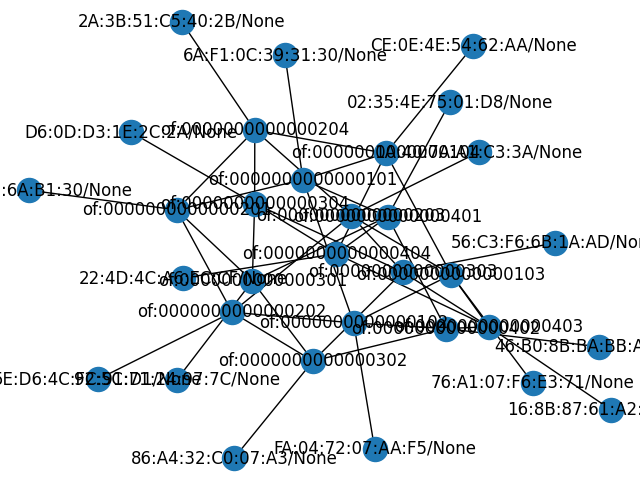
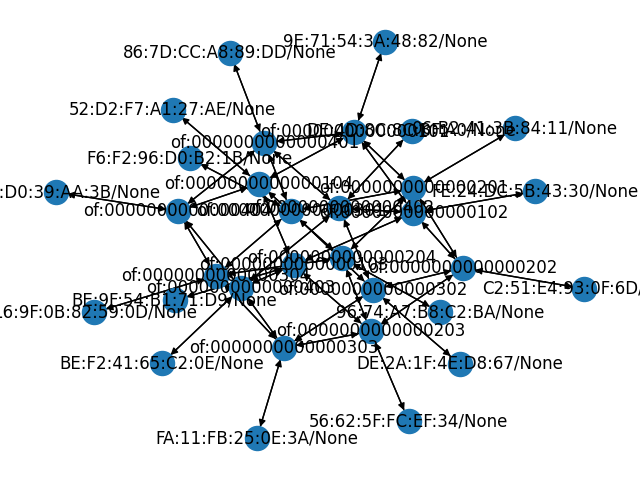
ajout routage complet de la topologie

Changed region(s): [[0.0, 0.0, 1.0, 1.0]]

diff --git a/app-graphql.py b/app-graphql.py
@@ -3,6 +3,7 @@ from requests.auth import HTTPBasicAuth
 import networkx as nx
 import matplotlib.pyplot as plt
 import time
+import itertools
 
 print("Démarrage de l'application IPS, veuillez patienter.\n")
 print("Vérification de la disponibilité de l'API Onos...\n")
@@ -21,7 +22,7 @@ print("Vérification de la disponibilité de l'API Onos...\n")
 # création du graphe de la topologie du réseau associé au contrôleur ONOS à partir de son adresse IP
 def create_graph_from_topology(ip):
     # initialisation du graphe
-    gr = nx.Graph()
+    gr = nx.DiGraph()
 
     # requêtes au contrôleur ONOS
     url = "http://"+ip+":5000/graphql"
@@ -35,18 +36,20 @@ def create_graph_from_topology(ip):
     elif (r_links.status_code != 200):
         return "Erreur sur la liste des liens."
     else:
+        global host_list_mac
+        host_list_mac = []
         host_list = r_hosts.json()['data']['hosts']
         link_list = r_links.json()['data']['liens']
         
-        # for i in devices_list:
-        #     gr.add_node(i['id'])
-        
         for l in link_list:
             gr.add_edge(l['src']['device'],l['dst']['device'],orig=l['src']['port'],dest=l['dst']['port'])
+            gr.add_edge(l['dst']['device'],l['src']['device'],orig=l['dst']['port'],dest=l['src']['port'])
         
         for h in host_list:
             gr.add_node(h['id'],id=h['id'])
+            host_list_mac.append(h['id'])
             gr.add_edge(h['id'],h['locations'][0]["elementId"],orig="host",dest=h['locations'][0]["port"])
+            gr.add_edge(h['locations'][0]["elementId"],h['id'],orig=h['locations'][0]["port"],dest="host")
         
         return gr
 
@@ -54,65 +57,72 @@ start = time.time()
 gr = create_graph_from_topology("192.168.1.154")
 r = nx.draw(gr, with_labels=True)
 plt.savefig("test-graphql.png")
-end = time.time()
 
-print("La topologie du réseau a été générée. Temps de génération : ", end - start, " secondes\n")
-while (1):
-    orig = input("Veuillez entrer l'hôte d'origine.\n")
-    if orig not in gr:
-        print("Hôte inexistant. Veuillez réessayer.\n")
-    else:
-        break
-while (1):
-    dest = input("Veuillez entrer l'hôte de destination.\n")
-    if dest not in gr:
-        print("Hôte inexistant. Veuillez réessayer.\n")
-    else:
-        break
 
-print("Exécution de Dijsktra... \n")
-# test Dijkstra
-l = nx.shortest_path(gr,orig,dest)
-print("Voici le chemin le plus court : \n")
-print(l)
-print("\nInstallation des intents :")
+# print("La topologie du réseau a été générée. Temps de génération : ", end - start, " secondes\n")
+# while (1):
+#     orig = input("Veuillez entrer l'hôte d'origine.\n")
+#     if orig not in gr:
+#         print("Hôte inexistant. Veuillez réessayer.\n")
+#     else:
+#         break
+# while (1):
+#     dest = input("Veuillez entrer l'hôte de destination.\n")
+#     if dest not in gr:
+#         print("Hôte inexistant. Veuillez réessayer.\n")
+#     else:
+#         break
 
-liste_intent = []
-fwd_orig = ("","")
-fwd_dest = ("","")
-mac_orig = orig.replace("/None","")
-mac_dest = dest.replace("/None","")
-for i in range(0,len(l)-1):
-    if i==len(l)-2:
-        port = gr.get_edge_data(l[i],l[i+1])
-        fwd_dest = (l[i],port["orig"])
-        intent_orig = fwd_orig[0]+"-"+fwd_orig[1]
-        intent_dest = fwd_dest[0]+"-"+fwd_dest[1]
-        r_intent = requests.get("http://192.168.1.154:5000/intent?orig="+intent_orig+"&dest="+intent_dest
-        +"&macorig="+mac_orig+"&macdest="+mac_dest)
-        r_intent_inv = requests.get("http://192.168.1.154:5000/intent?orig="+intent_dest+"&dest="+intent_orig
-        +"&macorig="+mac_dest+"&macdest="+mac_orig)
-        print([intent_orig,intent_dest])
-        print([intent_dest,intent_orig])
-    else:
-        port = gr.get_edge_data(l[i],l[i+1])
-        if (port["orig"]=="host"):
-            fwd_orig = (l[i+1],port["dest"])
-        else:
+def install_intent(mac_o,mac_d,liste_chemin):
+    l=liste_chemin
+    fwd_orig = ("","")
+    fwd_dest = ("","")
+    mac_orig = mac_o.replace("/None","")
+    mac_dest = mac_d.replace("/None","")
+    string_mut="mutation { \n"
+        
+
+    for i in range(0,len(l)-1):
+        if i==len(l)-2:
+            port = gr.get_edge_data(l[i],l[i+1])
             fwd_dest = (l[i],port["orig"])
-            if (port["orig"]!="host"):
-                intent_orig = fwd_orig[0]+"-"+fwd_orig[1]
-                intent_dest = fwd_dest[0]+"-"+fwd_dest[1]
-                r_intent = requests.get("http://192.168.1.154:5000/intent?orig="+intent_orig+"&dest="+intent_dest
-                +"&macorig="+mac_orig+"&macdest="+mac_dest)
-                r_intent_inv = requests.get("http://192.168.1.154:5000/intent?orig="+intent_dest+"&dest="+intent_orig
-        +"&macorig="+mac_dest+"&macdest="+mac_orig)
-                print([intent_orig,intent_dest])
-                print([intent_dest,intent_orig])
-
+            intent_orig = fwd_orig[0]+"/"+fwd_orig[1]
+            intent_dest = fwd_dest[0]+"/"+fwd_dest[1]
+            string_mut += "r"+str(i)+": addIntent(intent_orig: \""+intent_orig+"\", mac_orig: \""+mac_orig+"\", intent_dest: \""+intent_dest+"\", mac_dest: \""+mac_dest+"\") { intent_orig, intent_dest }\n"
+            string_mut += "s"+str(i)+": addIntent(intent_orig: \""+intent_dest+"\", mac_orig: \""+mac_dest+"\", intent_dest: \""+intent_orig+"\", mac_dest: \""+mac_orig+"\") { intent_orig, intent_dest }\n"
+            print([intent_orig,intent_dest])
+            print([intent_dest,intent_orig])
+        else:
+            port = gr.get_edge_data(l[i],l[i+1])
+            if (port["orig"]=="host"):
                 fwd_orig = (l[i+1],port["dest"])
             else:
-                fwd_orig = ("","")
+                fwd_dest = (l[i],port["orig"])
+                if (port["orig"]!="host"):
+                    intent_orig = fwd_orig[0]+"/"+fwd_orig[1]
+                    intent_dest = fwd_dest[0]+"/"+fwd_dest[1]
 
+                    string_mut += "r"+str(i)+": addIntent(intent_orig: \""+intent_orig+"\", mac_orig: \""+mac_orig+"\", intent_dest: \""+intent_dest+"\", mac_dest: \""+mac_dest+"\") { intent_orig, intent_dest }\n"
+                    string_mut += "s"+str(i)+": addIntent(intent_orig: \""+intent_dest+"\", mac_orig: \""+mac_dest+"\", intent_dest: \""+intent_orig+"\", mac_dest: \""+mac_orig+"\") { intent_orig, intent_dest }\n"
+                    print([intent_orig,intent_dest])
+                    print([intent_dest,intent_orig])
 
-print(liste_intent)
+                    fwd_orig = (l[i+1],port["dest"])
+                else:
+                    fwd_orig = ("","")
+
+    string_mut += "}"
+    mutation_query = {'query': string_mut}
+    query_gql = requests.post("http://192.168.1.154:5000/graphql", auth=HTTPBasicAuth('karaf','karaf'), data = mutation_query)
+    return query_gql.content
+
+list_comb = list(itertools.combinations(host_list_mac, 2))
+for comb in list_comb:
+    # dijsktra
+    chemin = nx.shortest_path(gr,comb[0],comb[1])
+
+    status = install_intent(comb[0],comb[1],chemin)
+
+end = time.time()
+
+print("Temps total ", end - start, " secondes\n")

diff --git a/app-rest-v2.py b/app-rest-v2.py
@@ -3,6 +3,7 @@ from requests.auth import HTTPBasicAuth
 import networkx as nx
 import matplotlib.pyplot as plt
 import time
+import itertools
 
 print("Démarrage de l'application IPS, veuillez patienter.\n")
 print("Vérification de la disponibilité de l'API Onos...\n")
@@ -16,6 +17,8 @@ print("Vérification de la disponibilité de l'API Onos...\n")
 # r_links = requests.post(url, auth=HTTPBasicAuth('karaf','karaf'), data = liens_query).text
 
 # print(r_links)
+
+
 
 # création du graphe de la topologie du réseau associé au contrôleur ONOS à partir de son adresse IP
 def create_graph_from_topology(ip):
@@ -34,11 +37,10 @@ def create_graph_from_topology(ip):
     #     return "Erreur sur la liste des appareils."
     else:
         # devices_list = r_devices.json()['devices']
+        global host_list_mac
+        host_list_mac = []
         host_list = r_host.json()
         link_list = r_link.json()
-        
-        # for i in devices_list:
-        #     gr.add_node(i['id'])
         
         for l in link_list:
             gr.add_edge(l['src']['device'],l['dst']['device'],orig=l['src']['port'],dest=l['dst']['port'])
@@ -46,6 +48,7 @@ def create_graph_from_topology(ip):
         
         for h in host_list:
             gr.add_node(h['id'],id=h['id'])
+            host_list_mac.append(h['id'])
             gr.add_edge(h['id'],h['locations'][0]["elementId"],orig="host",dest=h['locations'][0]["port"])
             gr.add_edge(h['locations'][0]["elementId"],h['id'],orig=h['locations'][0]["port"],dest="host")
         
@@ -55,65 +58,84 @@ start = time.time()
 gr = create_graph_from_topology("192.168.1.154")
 r = nx.draw(gr, with_labels=True)
 plt.savefig("test.png")
-end = time.time()
-print("La topologie du réseau a été générée. Temps de génération : ", end - start, " secondes\n")
-while (1):
-    orig = input("Veuillez entrer l'hôte d'origine.\n")
-    if orig not in gr:
-        print("Hôte inexistant. Veuillez réessayer.\n")
-    else:
-        break
-while (1):
-    dest = input("Veuillez entrer l'hôte de destination.\n")
-    if dest not in gr:
-        print("Hôte inexistant. Veuillez réessayer.\n")
-    else:
-        break
 
-print("Exécution de Dijsktra... \n")
-# test Dijkstra
-l = nx.shortest_path(gr,orig,dest)
-print("Voici le chemin le plus court : \n")
-print(l)
 
-print("\nInstallation des intents :")
+# print("La topologie du réseau a été générée. Temps de génération : ", end - start, " secondes\n")
+# while (1):
+#     orig = input("Veuillez entrer l'hôte d'origine.\n")
+#     if orig not in gr:
+#         print("Hôte inexistant. Veuillez réessayer.\n")
+#     else:
+#         break
+# while (1):
+#     dest = input("Veuillez entrer l'hôte de destination.\n")
+#     if dest not in gr:
+#         print("Hôte inexistant. Veuillez réessayer.\n")
+#     else:
+#         break
 
-liste_intent = []
-fwd_orig = ("","")
-fwd_dest = ("","")
-mac_orig = orig.replace("/None","")
-mac_dest = dest.replace("/None","")
-for i in range(0,len(l)-1):
-    if i==len(l)-2:
-        port = gr.get_edge_data(l[i],l[i+1])
-        fwd_dest = (l[i],port["orig"])
-        intent_orig = fwd_orig[0]+"-"+fwd_orig[1]
-        intent_dest = fwd_dest[0]+"-"+fwd_dest[1]
-        r_intent = requests.get("http://192.168.1.154:5000/intent?orig="+intent_orig+"&dest="+intent_dest
-        +"&macorig="+mac_orig+"&macdest="+mac_dest)
-        r_intent_inv = requests.get("http://192.168.1.154:5000/intent?orig="+intent_dest+"&dest="+intent_orig
-        +"&macorig="+mac_dest+"&macdest="+mac_orig)
-        print([intent_orig,intent_dest])
-        print([intent_dest,intent_orig])
-    else:
-        port = gr.get_edge_data(l[i],l[i+1])
-        if (port["orig"]=="host"):
-            fwd_orig = (l[i+1],port["dest"])
-        else:
+def install_intent(mac_o,mac_d,liste_chemin):
+    l=liste_chemin
+    fwd_orig = ("","")
+    fwd_dest = ("","")
+    mac_orig = mac_o.replace("/None","")
+    mac_dest = mac_d.replace("/None","")
+    for i in range(0,len(l)-1):
+        if i==len(l)-2:
+            port = gr.get_edge_data(l[i],l[i+1])
             fwd_dest = (l[i],port["orig"])
-            if (port["orig"]!="host"):
-                intent_orig = fwd_orig[0]+"-"+fwd_orig[1]
-                intent_dest = fwd_dest[0]+"-"+fwd_dest[1]
-                r_intent = requests.get("http://192.168.1.154:5000/intent?orig="+intent_orig+"&dest="+intent_dest
-                +"&macorig="+mac_orig+"&macdest="+mac_dest)
-                r_intent_inv = requests.get("http://192.168.1.154:5000/intent?orig="+intent_dest+"&dest="+intent_orig
-        +"&macorig="+mac_dest+"&macdest="+mac_orig)
-                print([intent_orig,intent_dest])
-                print([intent_dest,intent_orig])
-
+            intent_orig = fwd_orig[0]+"-"+fwd_orig[1]
+            intent_dest = fwd_dest[0]+"-"+fwd_dest[1]
+            r_intent = requests.get("http://192.168.1.154:5000/intent?orig="+intent_orig+"&dest="+intent_dest
+            +"&macorig="+mac_orig+"&macdest="+mac_dest)
+            r_intent_inv = requests.get("http://192.168.1.154:5000/intent?orig="+intent_dest+"&dest="+intent_orig
+            +"&macorig="+mac_dest+"&macdest="+mac_orig)
+            print([intent_orig,intent_dest])
+            print([intent_dest,intent_orig])
+        else:
+            port = gr.get_edge_data(l[i],l[i+1])
+            if (port["orig"]=="host"):
                 fwd_orig = (l[i+1],port["dest"])
             else:
-                fwd_orig = ("","")
+                fwd_dest = (l[i],port["orig"])
+                if (port["orig"]!="host"):
+                    intent_orig = fwd_orig[0]+"-"+fwd_orig[1]
+                    intent_dest = fwd_dest[0]+"-"+fwd_dest[1]
+                    r_intent = requests.get("http://192.168.1.154:5000/intent?orig="+intent_orig+"&dest="+intent_dest
+                    +"&macorig="+mac_orig+"&macdest="+mac_dest)
+                    r_intent_inv = requests.get("http://192.168.1.154:5000/intent?orig="+intent_dest+"&dest="+intent_orig
+            +"&macorig="+mac_dest+"&macdest="+mac_orig)
+                    print([intent_orig,intent_dest])
+                    print([intent_dest,intent_orig])
+
+                    fwd_orig = (l[i+1],port["dest"])
+                else:
+                    fwd_orig = ("","")
+    return "Installation chemin : "+mac_orig+" -> "+mac_dest+" OK"
+
+list_comb = list(itertools.combinations(host_list_mac, 2))
+for comb in list_comb:
+    # dijsktra
+    chemin = nx.shortest_path(gr,comb[0],comb[1])
+
+    status = install_intent(comb[0],comb[1],chemin)
+
+end = time.time()
+
+print("Temps total ", end - start, " secondes\n")
+
+""" 
+# print("Exécution de Dijsktra... \n")
+# test Dijkstra
+l = nx.shortest_path(gr,orig,dest)
+# print("Voici le chemin le plus court : \n")
+# print(l)
+
+# print("\nInstallation des intents :")
 
 
-print(liste_intent)
+
+
+
+
+ """
